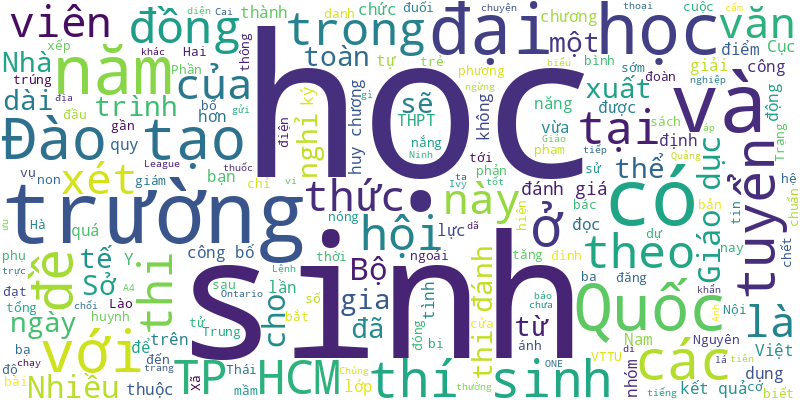
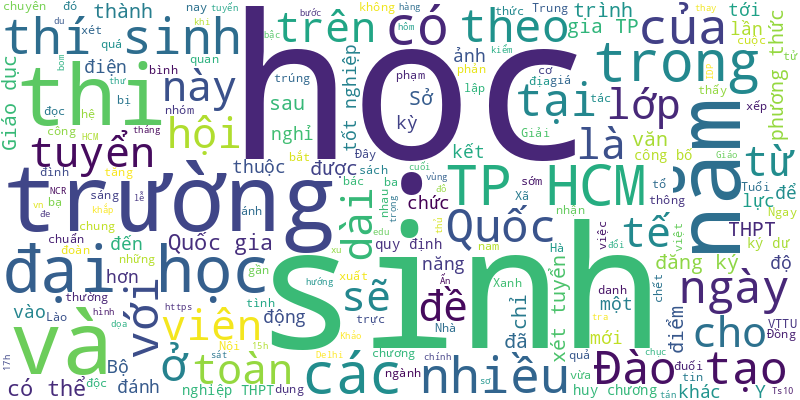
🍀 = 10%

diff --git a/README.md b/README.md
@@ -1,6 +1,15 @@
 # Tuoi Tre RSS 
 
 ## Giáo dục 
+- Ngay sau kỳ nghỉ lễ dài, học sinh nhiều bậc học sẽ bước vào kiểm tra cuối học kỳ 2 và những kỳ thi quan trọng: tuyển sinh lớp 10, thi tốt nghiệp THPT.
+- Từ hôm nay (2-5) đến 17h ngày 10-5, thí sinh sẽ chính thức đăng ký dự thi tốt nghiệp THPT năm 2024 theo hình thức trực tuyến.
+- Học sinh lớp 9 ở TP.HCM đăng ký thi tuyển sinh lớp 10 năm 2024 từ 15h ngày 3-5 tại địa chỉ: https://Ts10.hcm.edu.vn.
+- Khảo sát mới của tổ chức giáo dục IDP vào tháng 3-2024 cho thấy nhiều thay đổi trong xu hướng du học năm 2024.
+- Có tới 100 trường học trên khắp Delhi và vùng thủ đô quốc gia (NCR) của Ấn Độ đã nhận được thư điện tử đe dọa đánh bom. Trong đó, hàng chục trường học đã được sơ tán.
+- Năm 2025, sau khi dừng các lớp chuyên trong trường THPT thường, TP.HCM có thể thành lập thêm trường THPT chuyên thứ 3 để đáp ứng nhu cầu của học sinh toàn thành phố.
+- Đại học Quốc gia TP.HCM tuyển sinh theo nhiều phương thức khác nhau. Thực tế cho thấy điểm chuẩn các nhóm ngành rất khác nhau ở các phương thức xét tuyển.
+- Đây là những bức ảnh ghi lại góc nhìn độc đáo của học sinh TP.HCM trên chuyến thủy trình xuôi dòng sông Sài Gòn trong chung kết hội thi sáng tác ảnh Tuổi Xanh.
+- Từ năm học mới tới đây, sinh viên quốc tế tại Canada chỉ có thể làm việc tối đa 24 giờ trong tuần bên ngoài trường học, theo các quy định mới.
 - Hai đại học thuộc nhóm Ivy League bắt đầu đình chỉ sinh viên từ chối ngừng biểu tình.
 - Đề văn dài ba trang A4 là chuyện bình thường và độ dài của đề văn này chưa là gì so với các văn bản xuất hiện trong các đề thi tiếng Anh?
 - Lệnh cấm điện thoại di động, thuốc lá điện tử trong trường học được Ontario áp dụng từ năm học tới. Học sinh vi phạm có thể bị đình chỉ học.
@@ -22,47 +31,38 @@
 - Dù bạn đọc nhiều lần phản ánh nhưng bến xe này vẫn tồn tại ngay cạnh trường tiểu học ở quận 5 (TP.HCM), gây mất an toàn cho học sinh.
 - Sở Giáo dục và Đào tạo TP.HCM vừa công bố danh sách thí sinh giành các giải thưởng chung cuộc tại hội thi sáng tác ảnh Tuổi Xanh năm nay.
 - Năm 2024, tổng số thí sinh đăng ký dự thi đánh giá năng lực của Trường đại học Sư phạm Hà Nội là 11.537, tăng gấp gần 2,5 lần so với năm ngoái.
-- Phần lớn phụ huynh, chuyên gia giáo dục và các trường ở TP.HCM ủng hộ tuyển sinh đầu cấp theo nơi ở thực tế của học sinh.
-- Từ trước tới nay, đa số vụ bạo hành trẻ đều xảy ra trong giờ ăn của trường, nhóm, lớp mầm non. Tại sao như vậy?
-- Theo Cục Đào tạo, Bộ Công an, đề thi tham khảo có cấu trúc giống đề thi đánh giá chính thức, gồm hai phần trắc nghiệm và tự luận. Thí sinh làm bài trong 180 phút, tương tự năm ngoái.
-- Ông Nguyễn Tiến Thanh được bổ nhiệm giữ chức chủ tịch hội đồng thành viên đồng thời là tổng giám đốc Nhà xuất bản Giáo Dục Việt Nam.
-- 18 bạn nhỏ xuất sắc nhất đoạt giải Trạng Nguyên đã tái hiện lễ rước Trạng Nguyên theo nghi thức xưa tại sân Thái Học, Văn Miếu - Quốc Tử Giám.
-- Hàng triệu học sinh ở Bangladesh đã phải nghỉ học khi các trường học đóng cửa do nắng nóng quá mức.
-- Cục trưởng Cục Nhà trường (Bộ Quốc phòng) cho biết từ năm 2025 sẽ có kỳ thi đánh giá riêng để sử dụng kết quả tuyển sinh quân đội.
-- Trường đại học Lạc Hồng vừa có thêm sáu chương trình đào tạo đạt chuẩn kiểm định chất lượng AUN-QA và ABET.
-- Nhiều bạn đọc không đồng tình với hình thức kỷ luật cho nghỉ học một tuần với nhóm học sinh đánh hội đồng, lột áo nữ sinh lớp 9 quay clip.
 ![Edu](Edu.png)
 ## Thời Sự 
-- Quê Hà Tĩnh, nhưng Tổng bí thư đầu tiên của Đảng cộng sản Việt Nam sinh ra tại thành An Thổ (xã An Dân, huyện Tuy An, Phú Yên).
-- Tin tức đáng chú ý: Trả lương hưu sau 30-4 và 1-5 thế nào?; TP.HCM thu hơn 3.230 tỉ du lịch dịp nghỉ lễ; Đề nghị bổ sung thêm chế độ cho người tham gia bảo hiểm xã hội tự nguyện, không nên xây dựng chế độ khác biệt với bảo hiểm bắt buộc...
-- Ảnh hưởng không khí lạnh nên thời tiết Bắc Bộ giảm nắng nóng, mưa dông xuất hiện, Nam Bộ vẫn nắng nóng gay gắt, chờ  ngày có mưa.
-- Garuda giành quán quân hạng mục Battle; Planet Lock giành quán quân hạng mục Showcase cuộc thi Dalat Best Dance Crew 2024, bảng quốc tế tổ chức tại Đà Lạt.
-- TP Nha Trang vừa đề nghị tỉnh Khánh Hòa chỉ đạo phương án hạn chế tình trạng xâm nhập mặn lấn sâu vào sông Cái, sông Quán Trường.
-- Tối 30-4, người dân TP.HCM đổ về trung tâm thành phố để vui chơi và xem màn bắn pháo hoa chào mừng 49 năm Ngày thống nhất đất nước ngay từ sớm.
-- Kiều bào đã ủng hộ gần 1,6 tỉ đồng, gồm 850 triệu đồng ủng hộ chương trình "Cả nước vì Trường Sa" và nhu yếu phẩm trị giá gần 750 triệu đồng được trao trực tiếp cho các điểm đảo và nhà giàn DK-I/14.
-- Ngày 30-4, người dân đến bến Bạch Đằng (quận 1, TP.HCM) trải nghiệm buýt sông, tàu buýt hai tầng đông đảo khiến nơi đây trở nên nhộn nhịp.
-- Chiều 30-4, người dân các tỉnh, thành ở miền Trung di chuyển vào TP.HCM đông đúc sau kỳ nghỉ lễ, xảy ra tình trạng ùn ứ trên cao tốc Phan Thiết - Dầu Giây.
-- Nguyên chủ tịch Hội Người tù kháng chiến TP Cần Thơ cho rằng đặc san của Tuổi Trẻ ra dịp lễ 30-4 'có giá trị rất lớn'.
-- Đến 18h ngày 30-4, tình hình giao thông trên đường Lý Thái Tổ (Đồng Nai) hướng về phà Cát Lái TP.HCM diễn ra căng thẳng. Hàng dài xe hơi nối đuôi nhau "lết" từng chút một.
-- Theo Bộ Nội vụ, các địa phương có điều kiện phát triển kinh tế cần có chính sách hỗ trợ phù hợp, ngoài chính sách chế độ tiền lương chung của cán bộ.
-- Trong lúc đi dã ngoại trên sông Pô Kô, người phụ nữ trượt chân ngã xuống sông, hai người đàn ông nhảy xuống ứng cứu nhưng không may chết đuối cả ba.
-- Sau khi quen nhau trên mạng qua nhóm 'vỡ nợ muốn làm liều', nhóm 3 người bàn bạc sau khi xông vào biệt thự cướp sẽ trốn đi Campuchia tẩu thoát. Lực lượng công an đã mật phục 3 ngày để bắt nhóm này.
-- Ngoài những điểm vui chơi nổi tiếng, du khách còn vui thích trải nghiệm ngủ lều, câu cá và đặc biệt cho cá ăn giữa biển Phú Quốc trong chuyến nghỉ lễ 30-4 và 1-5 này.
-- Để mở rộng cao tốc Cam Lộ - La Sơn từ 2 làn xe, rộng 12m lên 4 làn xe, rộng 22 - 23,25m cần khoảng 7.000 tỉ đồng vốn ngân sách. Nếu dự án mở rộng cao tốc này được thực hiện năm 2024 sẽ cơ bản hoàn thành vào năm 2025.
-- Lo ngại ùn tắc trong ngày nghỉ cuối cùng, nhiều người quyết định quay trở lại Hà Nội sớm một ngày. Dưới nắng nóng bỏng rát 41 độ C, không ít người tỏ ra mệt mỏi.
-- Đến 15h30 ngày 30-4, tàu tìm kiếm cứu nạn SAR 411 và tàu cá do Bộ đội biên phòng Nam Định điều động đã cứu nạn thành công 10 thuyền viên tàu Sunrise 268 bị chìm tại vùng biển cửa Ba Lạt, Nam Định.
-- Quản lý khai thác 22 sân bay và chủ đầu tư xây dựng giai đoạn 1 sân bay Long Thành, Tổng công ty Cảng hàng không Việt Nam (ACV) lãi 2.900 tỉ đồng trong quý 1-2024. ACV ráo riết thu nợ nghìn tỉ đồng của hãng bay nội địa, tính đến khả năng kiện.
-- Trang thông tin điện tử Công an tỉnh Lâm Đồng khẳng định thông tin 'Đà Lạt xảy ra biến lớn' đang lan truyền trên mạng là sai sự thật, vi phạm pháp luật.
-- Tỉnh Quảng Trị hứa đến 30-4 sẽ có đủ mặt bằng sạch, nhưng đến giờ chưa có. Nhà thầu cao tốc Cam Lộ - Vạn Ninh lo ngại sẽ không đủ thời gian hoàn thành đào đắp nền đường trước mùa mưa vào tháng 9.
-- Trong 2 ngày lễ, Tiểu đoàn bộ binh 43 mở gian hàng 0 đồng trước cổng đơn vị, tặng một tấn rau củ quả  do bộ đội tăng gia cho người dân.
-- Cảnh sát hình sự Công an Đà Nẵng bắt giữ 2 thanh niên đi xe SH dùng mã tấu chém người đi đường để cướp tài sản.
-- Tháng 5, một số chính sách mới liên quan cải cách chính sách tiền lương mới, điều chỉnh giá điện, tiêu chuẩn các chức danh... sẽ có hiệu lực.
-- Những ngày tháng tư lịch sử, từng đoàn du khách ngược xuôi đến thăm di tích lịch sử bến tàu không số Hòn Hèo ở xã Ninh Vân, thị xã Ninh Hòa (Khánh Hòa).
-- Tuyến metro số 1 dài gần 20km (Bến Thành - Suối Tiên) với 3 ga ngầm và 11 ga trên cao đã xây dựng hoàn thiện, chờ ngày đưa vào hoạt động.
-- Ngày 30-4, suốt chiều dài hơn 17km trải dài qua hai tỉnh Tiền Giang và Bến Tre, hàng trăm công nhân, kỹ sư vẫn miệt mài làm việc.
-- TP.HCM đề nghị Bộ Nội vụ cho phép quyết định việc xây dựng vị trí việc làm đặc thù, không có trong quy định của trung ương.
-- Mực nước hồ xuống thấp, nắng nóng kéo dài không có nguồn nước bổ sung khiến cá chết hàng loạt, nổi trắng mặt hồ Sông Mây.
-- 49 năm đã qua, những người đã từng đi qua chiến tranh hồi ức lại chiến tranh như ký ức về một thời trai trẻ và mong sao quê hương luôn được hòa bình.
+- Dự báo trong tháng 5, áp thấp nóng phía Tây tiếp tục hoạt động mạnh nên ở khu vực Bắc Bộ; các tỉnh từ Thanh Hóa đến Phú Yên xuất hiện nhiều ngày nắng nóng và nắng nóng gay gắt, có nơi đặc biệt gay gắt.
+- Chủ tịch UBND TP.HCM Phan Văn Mãi chỉ đạo dừng đầu tư dự án Nhà thi đấu Phan Đình Phùng theo hình thức đối tác công tư (hợp đồng BT), chuyển sang đầu tư công.
+- Trong ngày nghỉ lễ quốc tế lao động 1-5, ở Đồng Nai đã xảy ra một vụ tai nạn lao động đặc biệt nghiêm trọng tại Công ty TNHH sản xuất và thương mại gỗ Bình Minh (xã Thiện Tân, huyện Vĩnh Cửu) làm 6 người chết, 5 người bị thương.
+- Một số tin tức đáng chú ý: Thủ tướng chỉ đạo khẩn phòng, chống cháy rừng; Khám, cấp cứu gần 964.700 bệnh nhân trong dịp nghỉ lễ; Bắt đầu đăng ký dự thi tốt nghiệp THPT 2024...
+- Hôm nay, Bắc Bộ vẫn chịu ảnh hưởng không khí lạnh yếu nên thời tiết mưa dông. Trung Trung Bộ vào Nam Bộ nắng nóng gay gắt.
+- Nhà kho rộng hàng trăm mét vuông ở đường D6, phường Phước Long B, TP Thủ Đức bị cháy. Hiện lực lượng chức năng vẫn đang nỗ lực dập lửa.
+- Sau khi du khách chết đuối trên suối Nước Lạnh, chính quyền địa phương đã buộc tháo dỡ hai điểm du lịch tự phát ở đây.
+- Ủy ban Thường vụ Quốc hội thông qua nghị quyết tạm đình chỉ thực hiện nhiệm vụ, quyền hạn đại biểu Quốc hội với bí thư Tỉnh ủy Bắc Giang Dương Văn Thái để cơ quan chức năng thực hiện việc khởi tố, bắt tạm giam.
+- Sau vụ 3 người chết đuối trên sông Pô Kô trưa 30-4, ngày 1-5, chính quyền huyện Đức Cơ (Gia Lai) đã nghiêm cấm hoạt động tiềm ẩn nguy hiểm trên khúc sông này.
+- Sau khi ăn bánh mì thịt, 73 người ở Đồng Nai có biểu hiện nôn ói, đau bụng, tiêu chảy, sốt phải nhập viện theo dõi và điều trị.
+- Đến khoảng 19h ngày 1-5, trạm thu phí BOT Rạch Miễu xả trạm ở cả 3 làn hướng từ Bến Tre đi Tiền Giang để giải tỏa bớt lượng xe ùn ứ trên quốc lộ 60. Đây là lần xả trạm thứ 3 trong ngày.
+- Liên quan vụ tai nạn xe khách tại thị trấn Chư Sê (Gia Lai), nguyên nhân ban đầu được xác định do một xe khách chạy quá tốc độ, không nhường đường khi qua ngã tư.
+- Thủ tướng vừa ký ban hành Công điện về vụ nổ lò hơi tại Đồng Nai, công điện được gửi tới nhiều bộ và các tỉnh.
+- Hai doanh nghiệp liên quan ông Đào Hồng Tuyển - chủ tịch Tập đoàn Tuần Châu - sẽ phải nộp hơn 6.095 tỉ đồng để đảm bảo nghĩa vụ bồi hoàn cho bà Trương Mỹ Lan trong vụ án.
+- Chi cục Kiểm lâm TP.HCM vừa tiếp nhận một con kỳ đà vân có tên trong trong danh mục động vật rừng nguy cấp quý hiếm do người dân tự nguyện giao.
+- Chiều 1-5, tình trạng giao thông tại các cửa ngõ dễ thở, chỉ xảy ra ùn ứ tại các giao lộ trong vài thời điểm.
+- Chiều 1-5, Bộ Lao động - Thương binh và Xã hội có công văn yêu cầu xử lý nghiêm, xem xét trách nhiệm hình sự nếu có trong vụ nổ lò hơi tại Đồng Nai.
+- Trong 5 ngày nghỉ lễ 30-4 và 1-5, cả nước xảy ra 347 vụ tai nạn giao thông, làm chết 138 người, bị thương 285 người.
+- Taxi đậu đầy bãi tạm khu vực sân bay Tân Sơn Nhất, tài xế sẵn sàng đến lượt vào chở khách. Xe công nghệ đua tăng cường người hướng dẫn khách tìm xe.
+- Nhiều địa phương ở Nghệ An có mưa dông, kết thúc chuỗi ngày nắng nóng đỉnh điểm, thậm chí một số nơi còn xuất hiện mưa đá.
+- Đoàn trinh sát số 2, Bộ tư lệnh Cảnh sát biển Việt Nam vừa phát hiện một tàu cá của tỉnh Kiên Giang giấu thiết bị giám sát hành trình của 14 tàu cá khác.
+- 170.000 lượt khách đến Đà Lạt nghỉ mát, tham quan bất chấp tin giả bủa vây trong dịp lễ 30-4 và 1-5 là thống kê mới nhất của UBND TP Đà Lạt.
+- Liên quan vụ cháy rừng ở xã Vĩnh Phú (huyện Giang Thành, Kiên Giang), UBND tỉnh Kiên Giang đã thống kê có khoảng 371ha rừng bị cháy.
+- Ngày 1-5, lãnh đạo UBND tỉnh Đắk Nông cho biết đã cung cấp hồ sơ các dự án điện gió theo yêu cầu của Ủy ban Kiểm tra Trung ương.
+- Trước khi vụ nổ lò hơi xảy ra làm 6 người chết, công ty đã phát hiện trục trặc và báo đơn vị cung cấp đến sửa chữa.
+- Công an huyện Nậm Pồ (Điện Biên) đang điều tra nguyên nhân vụ ba bố con chết cháy ở khe núi, nghi do tai nạn khi đi bắt dúi.
+- Do ảnh hưởng của không khí lạnh yếu kết hợp với hội tụ gió nên chiều tối và đêm nay (1-5), ở Bắc Bộ và Bắc Trung Bộ có mưa rào và dông rải rác, cục bộ có mưa to. Người dân cần đề phòng lốc, sét, mưa đá và gió giật mạnh.
+- Mạng xã hội Facebook đang lan truyền đoạn video kèm nội dung "cảnh sát giao thông An Lạc đạp người dân", video nhận được nhiều lượt chia sẻ, bình luận. Hiện tại Phòng PC08 đang tiến hành làm rõ.
+- Công đoàn đề nghị nghiên cứu, bổ sung dự thảo Luật Bảo hiểm xã hội sửa đổi việc hoán đổi năm đóng thêm bảo hiểm xã hội cho người nghỉ hưu sớm.
+- Đã xuống giống 4.000ha lúa hè thu sớm và có nguy cơ thiệt hại, tỉnh Bạc Liêu yêu cầu kiên quyết vận động người dân không tiếp tục xuống giống 5.000ha còn lại, bởi hạn hán còn tiếp diễn trong thời gian tới.
 ![New](News.png)
 ## Nhịp sống số 
 - Để các đối tác nhà hàng, quán ăn được tiếp sức trên chặng đường đầy cạnh tranh, Gojek tiếp tục xây dựng kế hoạch hỗ trợ trong năm 2024.
